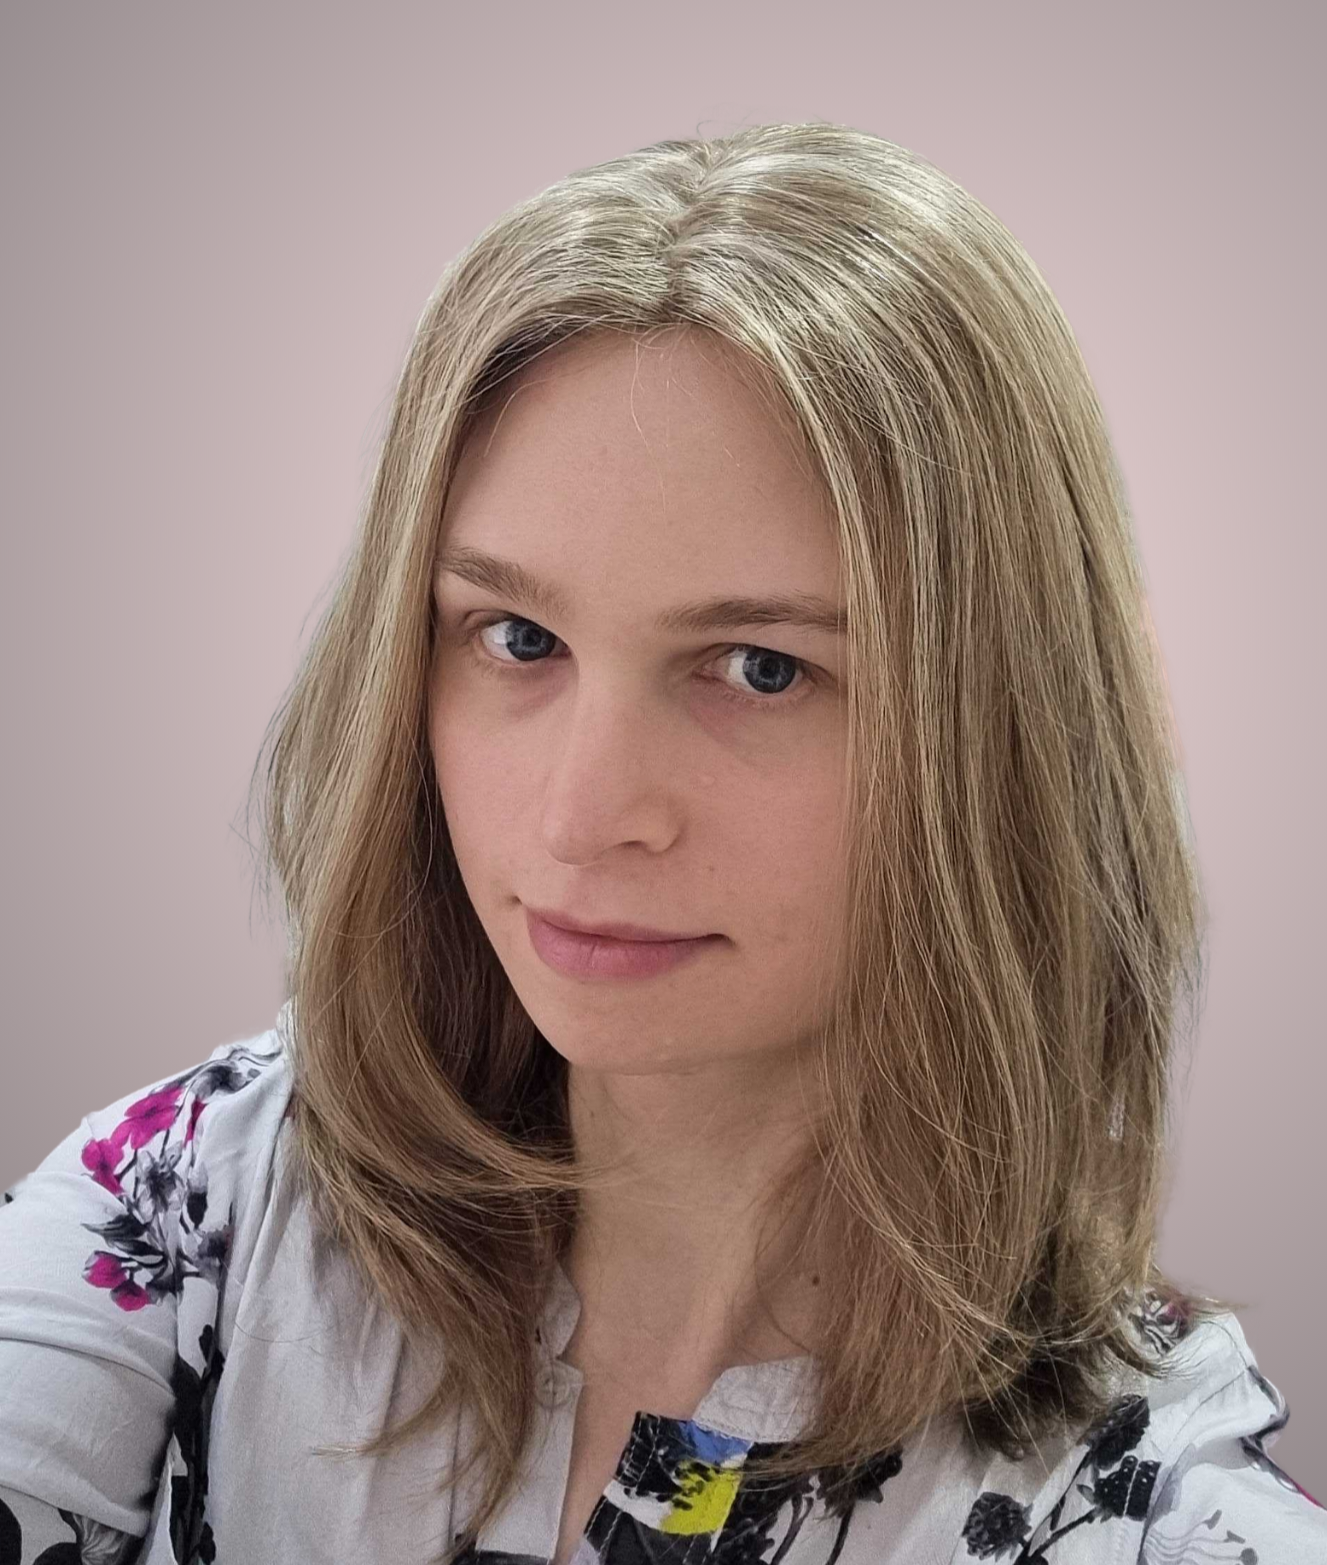
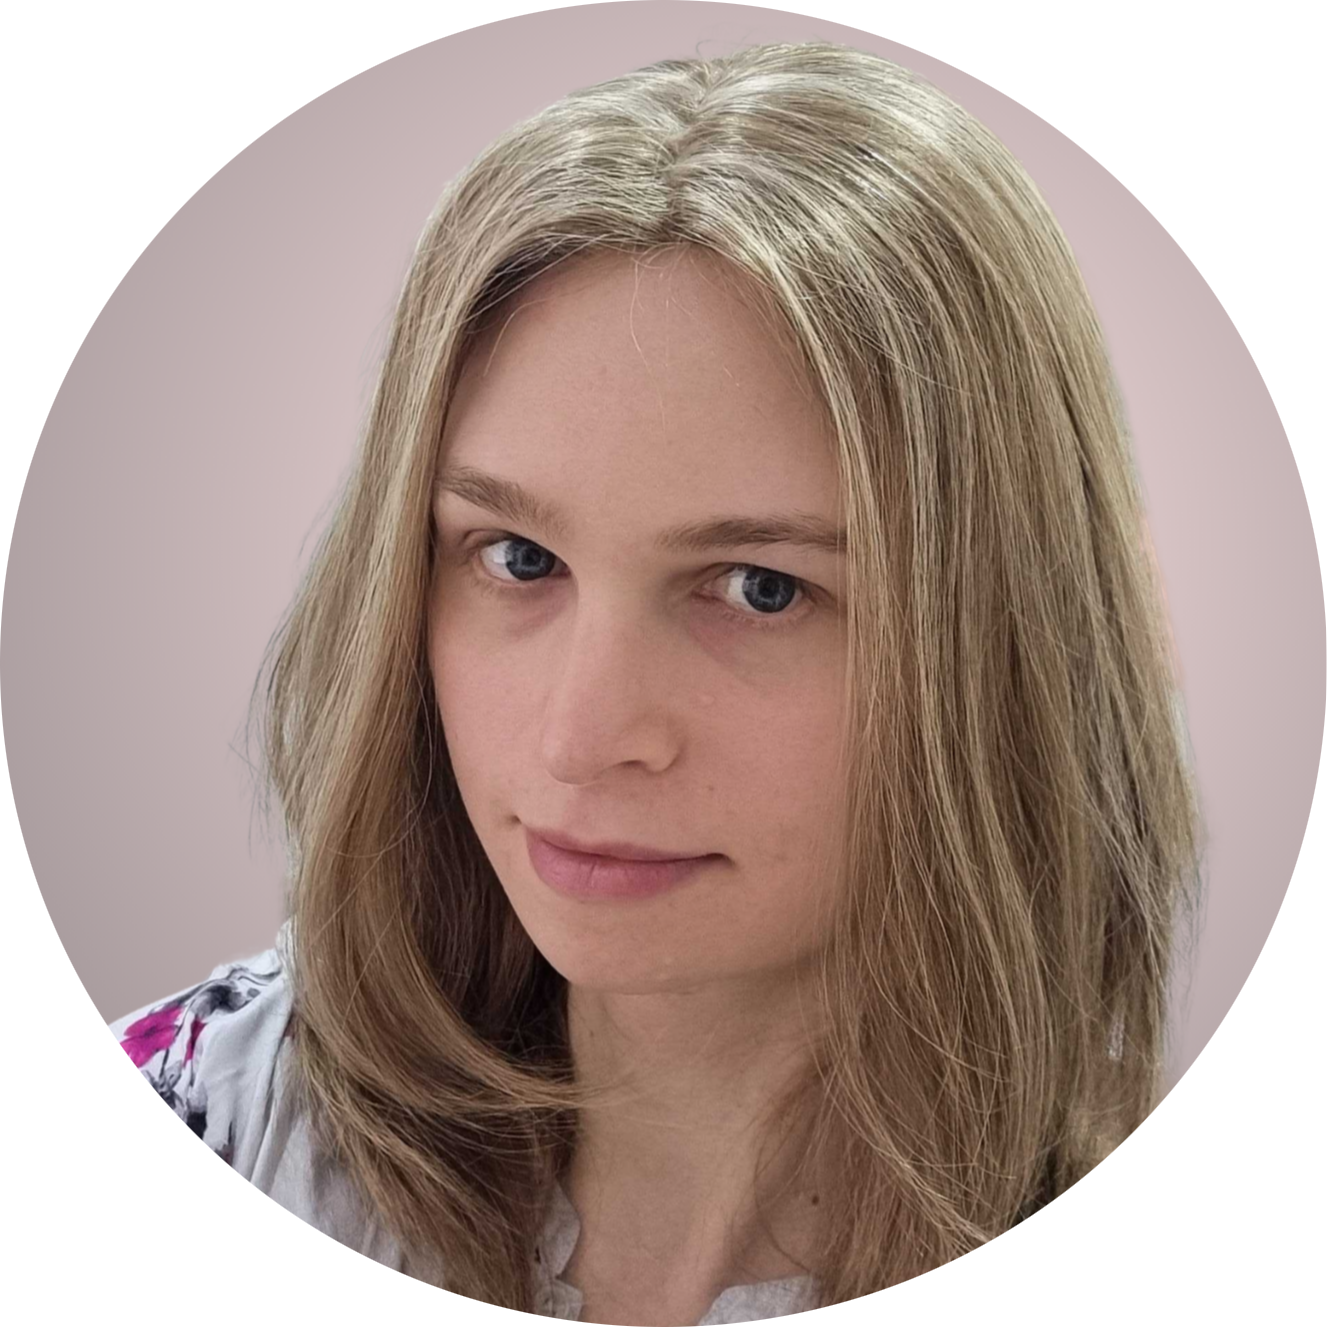
Update names and photos again

diff --git a/src/Team/teamData.jsx b/src/Team/teamData.jsx
@@ -1,18 +1,18 @@
 import ElectraPortrait from "../assets/godragons-electra-portrait.png";
-import DragosPortrait from "../assets/godragons-dragos-portrait.jpg";
+import DragosPortrait from "../assets/godragons-dragos-portrait.png";
 
 const teamData = [
   {
     name: "Electra Coury",
     title: "Founder",
-    bio: "Founding partner of GoDragons, Marc Coury, is a highly experienced software developer, public speaker and events organiser. He enjoys finding and delivering solutions to complex problems in a fast paced environment. <br /><br /> At the 2019 Go conference (gophercon.co.uk) in London Marc delivered a workshop on TDD and BDD. Additionally, while studying for his PhD, he led the organisation of a scientific conference (Hermes2014.org) and spoke at many scientific conferences and outreach events. <br /><br /> In his spare time he enjoys cooking, yoga, swimming and meditation.",
+    bio: "Founding partner of GoDragons, Electra, is a highly experienced software developer, public speaker and events organiser. He enjoys finding and delivering solutions to complex problems in a fast paced environment. <br /><br /> At the 2019 Go conference (gophercon.co.uk) in London Marc delivered a workshop on TDD and BDD. Additionally, while studying for his PhD, he led the organisation of a scientific conference (Hermes2014.org) and spoke at many scientific conferences and outreach events. <br /><br /> In his spare time he enjoys cooking, yoga, swimming and meditation.",
     linkedin: "https://www.linkedin.com/in/electracoury/",
     photo: ElectraPortrait,
   },
   {
     name: "Dragos Mitelea",
     title: "Founder",
-    bio: "Dragos Iordachioaia has decided to co-found GoDragons out of a desire to build a truly sustainable business. He has been building commercial software for 10 years, during which he has acquired skills ranging from public speaking and 3D graphics design to marketing and retail. <br /><br /> His strength is distilling complex problems into simple solutions. Dragos also really enjoys sharing knowledge and training people, having done that in most of his roles.<br /><br />His downtime is spent cycling, boxing and playing tennis, mixed with learning new languages.",
+    bio: "Dragos has decided to co-found GoDragons out of a desire to build a truly sustainable business. He has been building commercial software for 10 years, during which he has acquired skills ranging from public speaking and 3D graphics design to marketing and retail. <br /><br /> His strength is distilling complex problems into simple solutions. Dragos also really enjoys sharing knowledge and training people, having done that in most of his roles.<br /><br />His downtime is spent cycling, boxing and playing tennis, mixed with learning new languages.",
     linkedin: "https://www.linkedin.com/in/dragos-iordachioaia/",
     photo: DragosPortrait,
   },
